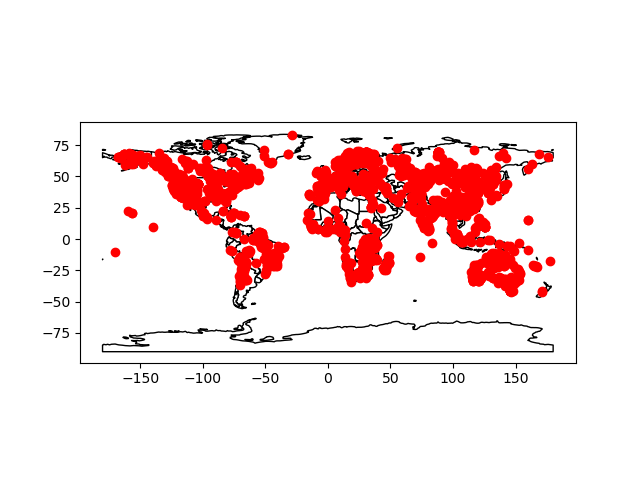
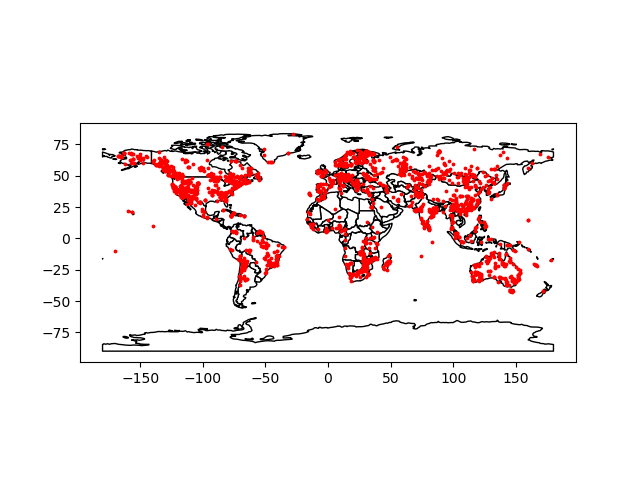
smaller marks

diff --git a/src/criticalminerals/graph.py b/src/criticalminerals/graph.py
@@ -26,5 +26,5 @@ world = gpd.read_file(gpd.datasets.get_path("naturalearth_lowres"))
 
 # Plot.
 ax = world.plot(color="white", edgecolor="black")
-gdf.plot(ax=ax, color="red", markersize=5)
+gdf.plot(ax=ax, color="red", markersize=3)
 plt.savefig("output/criticalminerals/worldmap.png")
